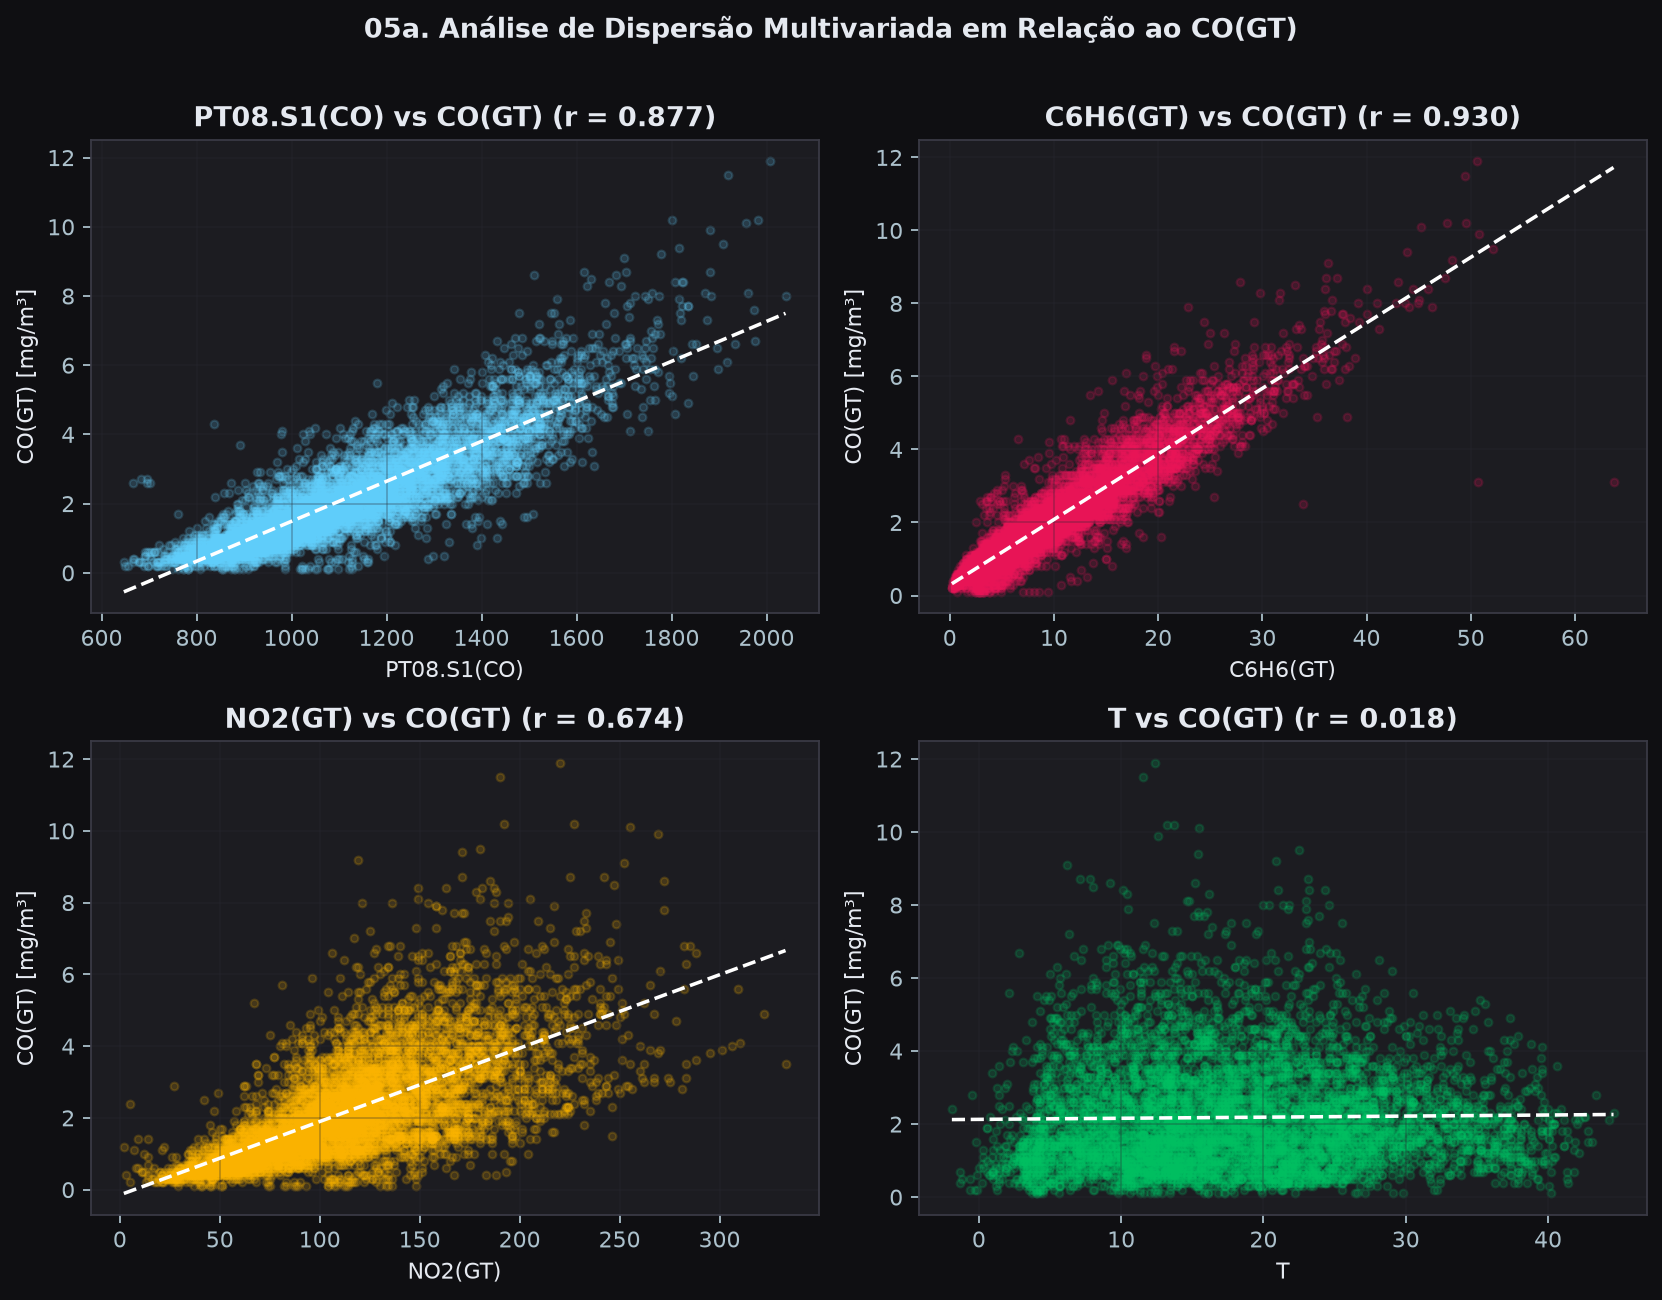
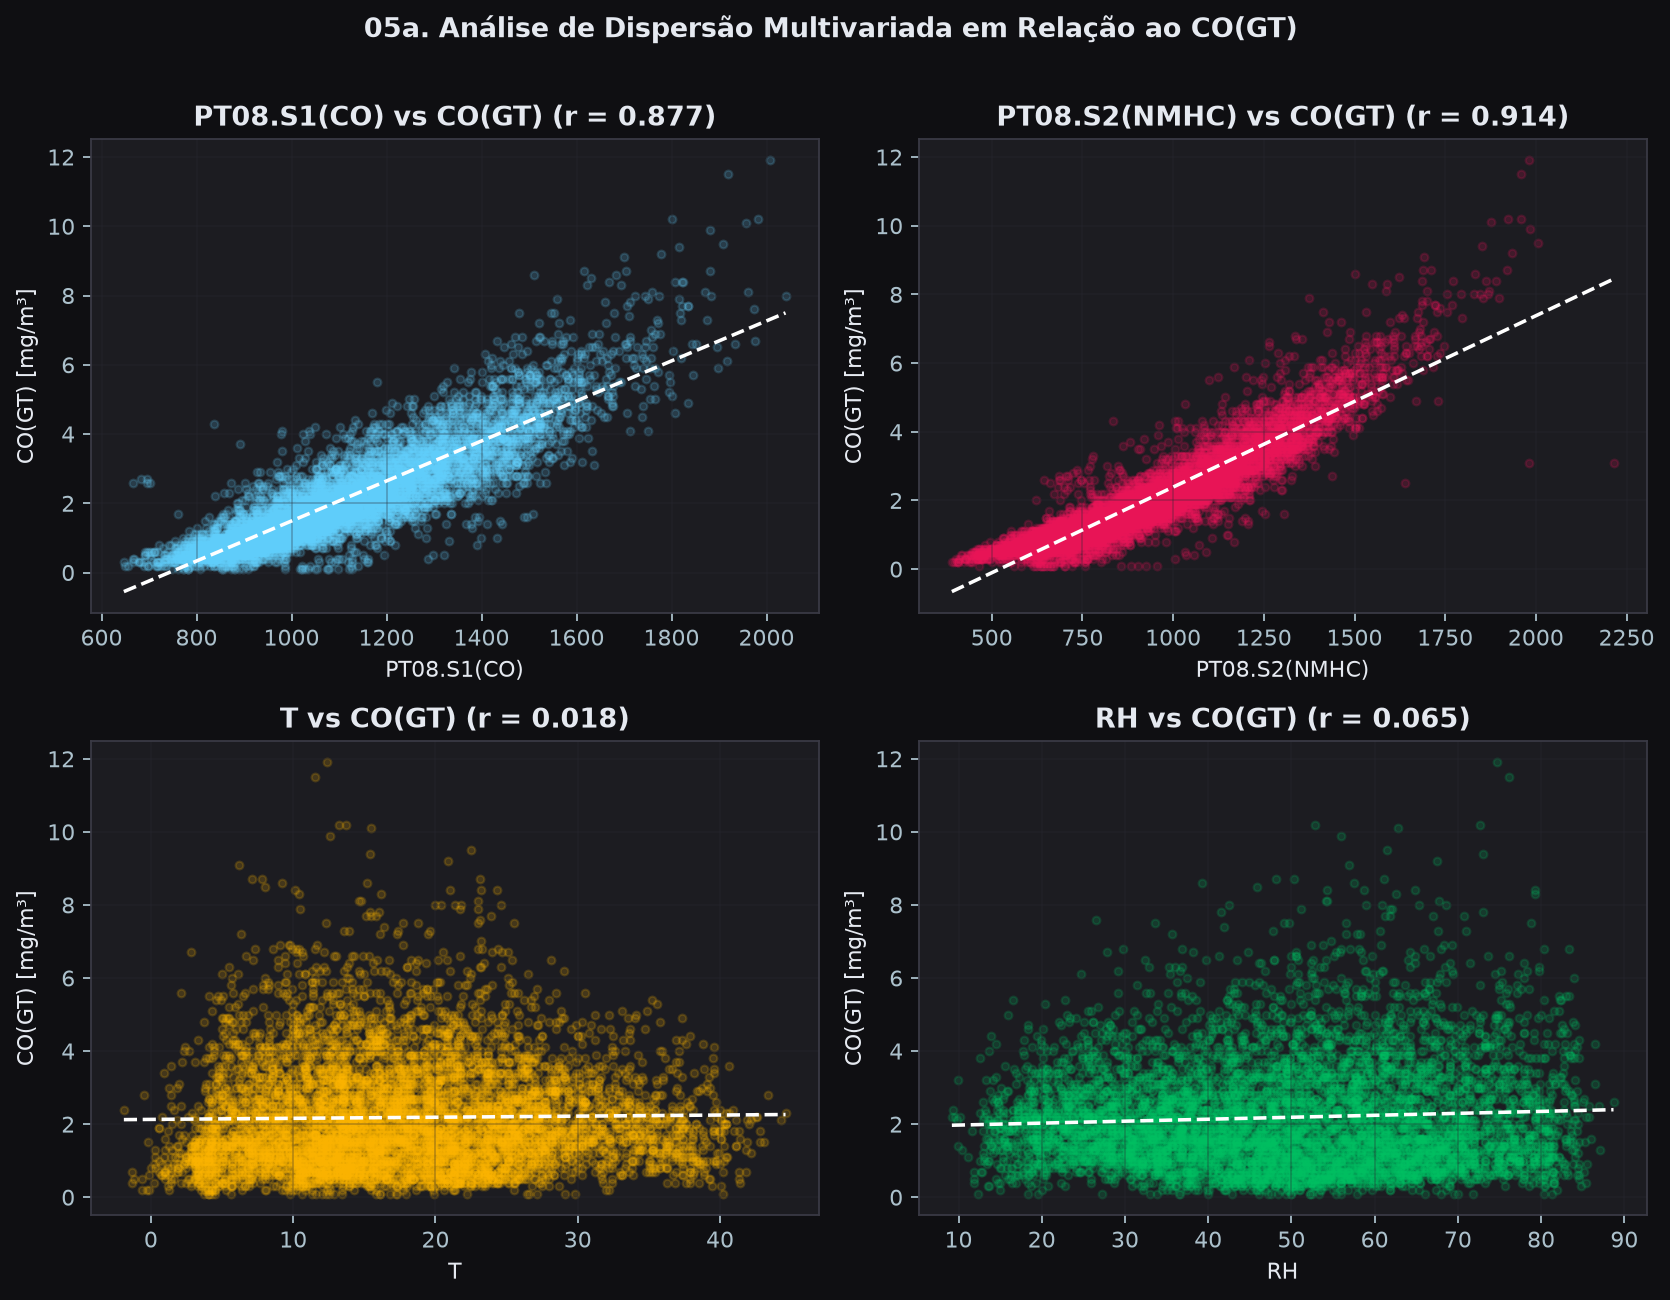
Estatística: regressão múltipla e logística com as 4 leituras do sensor

diff --git a/packages/stats-r-python/analise_estatistica.py b/packages/stats-r-python/analise_estatistica.py
@@ -1,7 +1,7 @@
 #!/usr/bin/env python3
 """
-RespiraCidadao - FIAP GS 2026.2 (09 Statistical Computing with R & Python)
-Analise estatistica completa sobre base real UCI Air Quality (sem dados sinteticos).
+RespiraCidadao: analise estatistica da base real UCI Air Quality (6.941 horas, sem dados sinteticos).
+Pergunta central: as 4 leituras que o nosso sensor faz explicam o monoxido de carbono medido pela estacao de referencia?
 Gera base limpa (.csv), graficos (.png) e resumo estruturado (artifacts/stats_summary.json).
 """
 
@@ -204,7 +204,8 @@ def main():
     plt.close(fig)
 
     # ------------------------------------------------------------------ 05 Multivariada & Reg Multipla
-    multi_features = ["PT08.S1(CO)", "C6H6(GT)", "NO2(GT)", "T"]
+    # As 4 leituras que o ESP32 faz: gas_co, gas_voc, temperatura e umidade.
+    multi_features = ["PT08.S1(CO)", "PT08.S2(NMHC)", "T", "RH"]
     multi_cols = ["CO(GT)"] + multi_features
     df_multi = df[multi_cols]
     cov_matrix = df_multi.cov().round(4)
@@ -244,8 +245,9 @@ def main():
     f_stat_multi = float(ols_multi.fvalue)
     f_pval_multi = float(ols_multi.f_pvalue)
 
-    cen_multi_atencao = {"PT08.S1(CO)": 1180.0, "C6H6(GT)": 11.5, "NO2(GT)": 115.0, "T": 27.0}
-    cen_multi_critico = {"PT08.S1(CO)": 1520.0, "C6H6(GT)": 24.0, "NO2(GT)": 185.0, "T": 34.0}
+    # Mesmas leituras tipicas que o sensor manda no modo demonstracao (Praca da Se e Escola).
+    cen_multi_atencao = {"PT08.S1(CO)": 1120.0, "PT08.S2(NMHC)": 980.0, "T": 24.0, "RH": 42.0}
+    cen_multi_critico = {"PT08.S1(CO)": 1383.0, "PT08.S2(NMHC)": 1280.0, "T": 31.0, "RH": 34.0}
     prev_multi_atencao = float(ols_multi.predict([1.0] + [cen_multi_atencao[f] for f in multi_features])[0])
     prev_multi_critico = float(ols_multi.predict([1.0] + [cen_multi_critico[f] for f in multi_features])[0])
 
@@ -350,20 +352,15 @@ def main():
             "matriz_covariancia": cov_matrix.to_dict(),
             "matriz_correlacao": corr_matrix.to_dict(),
             "coeficientes": {k: round(v, 5) for k, v in multi_params.items()},
-            "equacao": (
-                f"CO(GT) = {multi_params['const']:.4f}"
-                f" + {multi_params['PT08.S1(CO)']:.5f}*PT08.S1(CO)"
-                f" + {multi_params['C6H6(GT)']:.4f}*C6H6(GT)"
-                f" + {multi_params['NO2(GT)']:.5f}*NO2(GT)"
-                f" + ({multi_params['T']:.5f})*T"
-            ),
+            "equacao": f"CO(GT) = {multi_params['const']:.4f}"
+            + "".join(f" + ({multi_params[f]:.5f})*{f}" for f in multi_features),
             "r2": round(r2_multi, 4),
             "r2_ajustado": round(r2_adj_multi, 4),
             "teste_f": round(f_stat_multi, 2),
             "f_p_valor": f_pval_multi,
             "previsoes": [
-                {"cenario": "Atenção Urbana", "entrada": cen_multi_atencao, "co_previsto": round(prev_multi_atencao, 4)},
-                {"cenario": "Crítico Queimada", "entrada": cen_multi_critico, "co_previsto": round(prev_multi_critico, 4)},
+                {"cenario": "Ar carregado (Praça da Sé)", "entrada": cen_multi_atencao, "co_previsto": round(prev_multi_atencao, 4)},
+                {"cenario": "Ar ruim (Escola)", "entrada": cen_multi_critico, "co_previsto": round(prev_multi_critico, 4)},
             ],
         },
         "item_06_regressao_logistica": {
@@ -382,13 +379,13 @@ def main():
             "f1_critico": round(float(rep_log["1"]["f1-score"]), 4),
             "classificacoes_exemplo": [
                 {
-                    "cenario": "Atenção Urbana",
+                    "cenario": "Ar carregado (Praça da Sé)",
                     "entrada": cen_multi_atencao,
                     "prob_critico": round(float(probs_log[0]), 4),
                     "classe_predita": int(preds_log[0]),
                 },
                 {
-                    "cenario": "Crítico Queimada",
+                    "cenario": "Ar ruim (Escola)",
                     "entrada": cen_multi_critico,
                     "prob_critico": round(float(probs_log[1]), 4),
                     "classe_predita": int(preds_log[1]),
